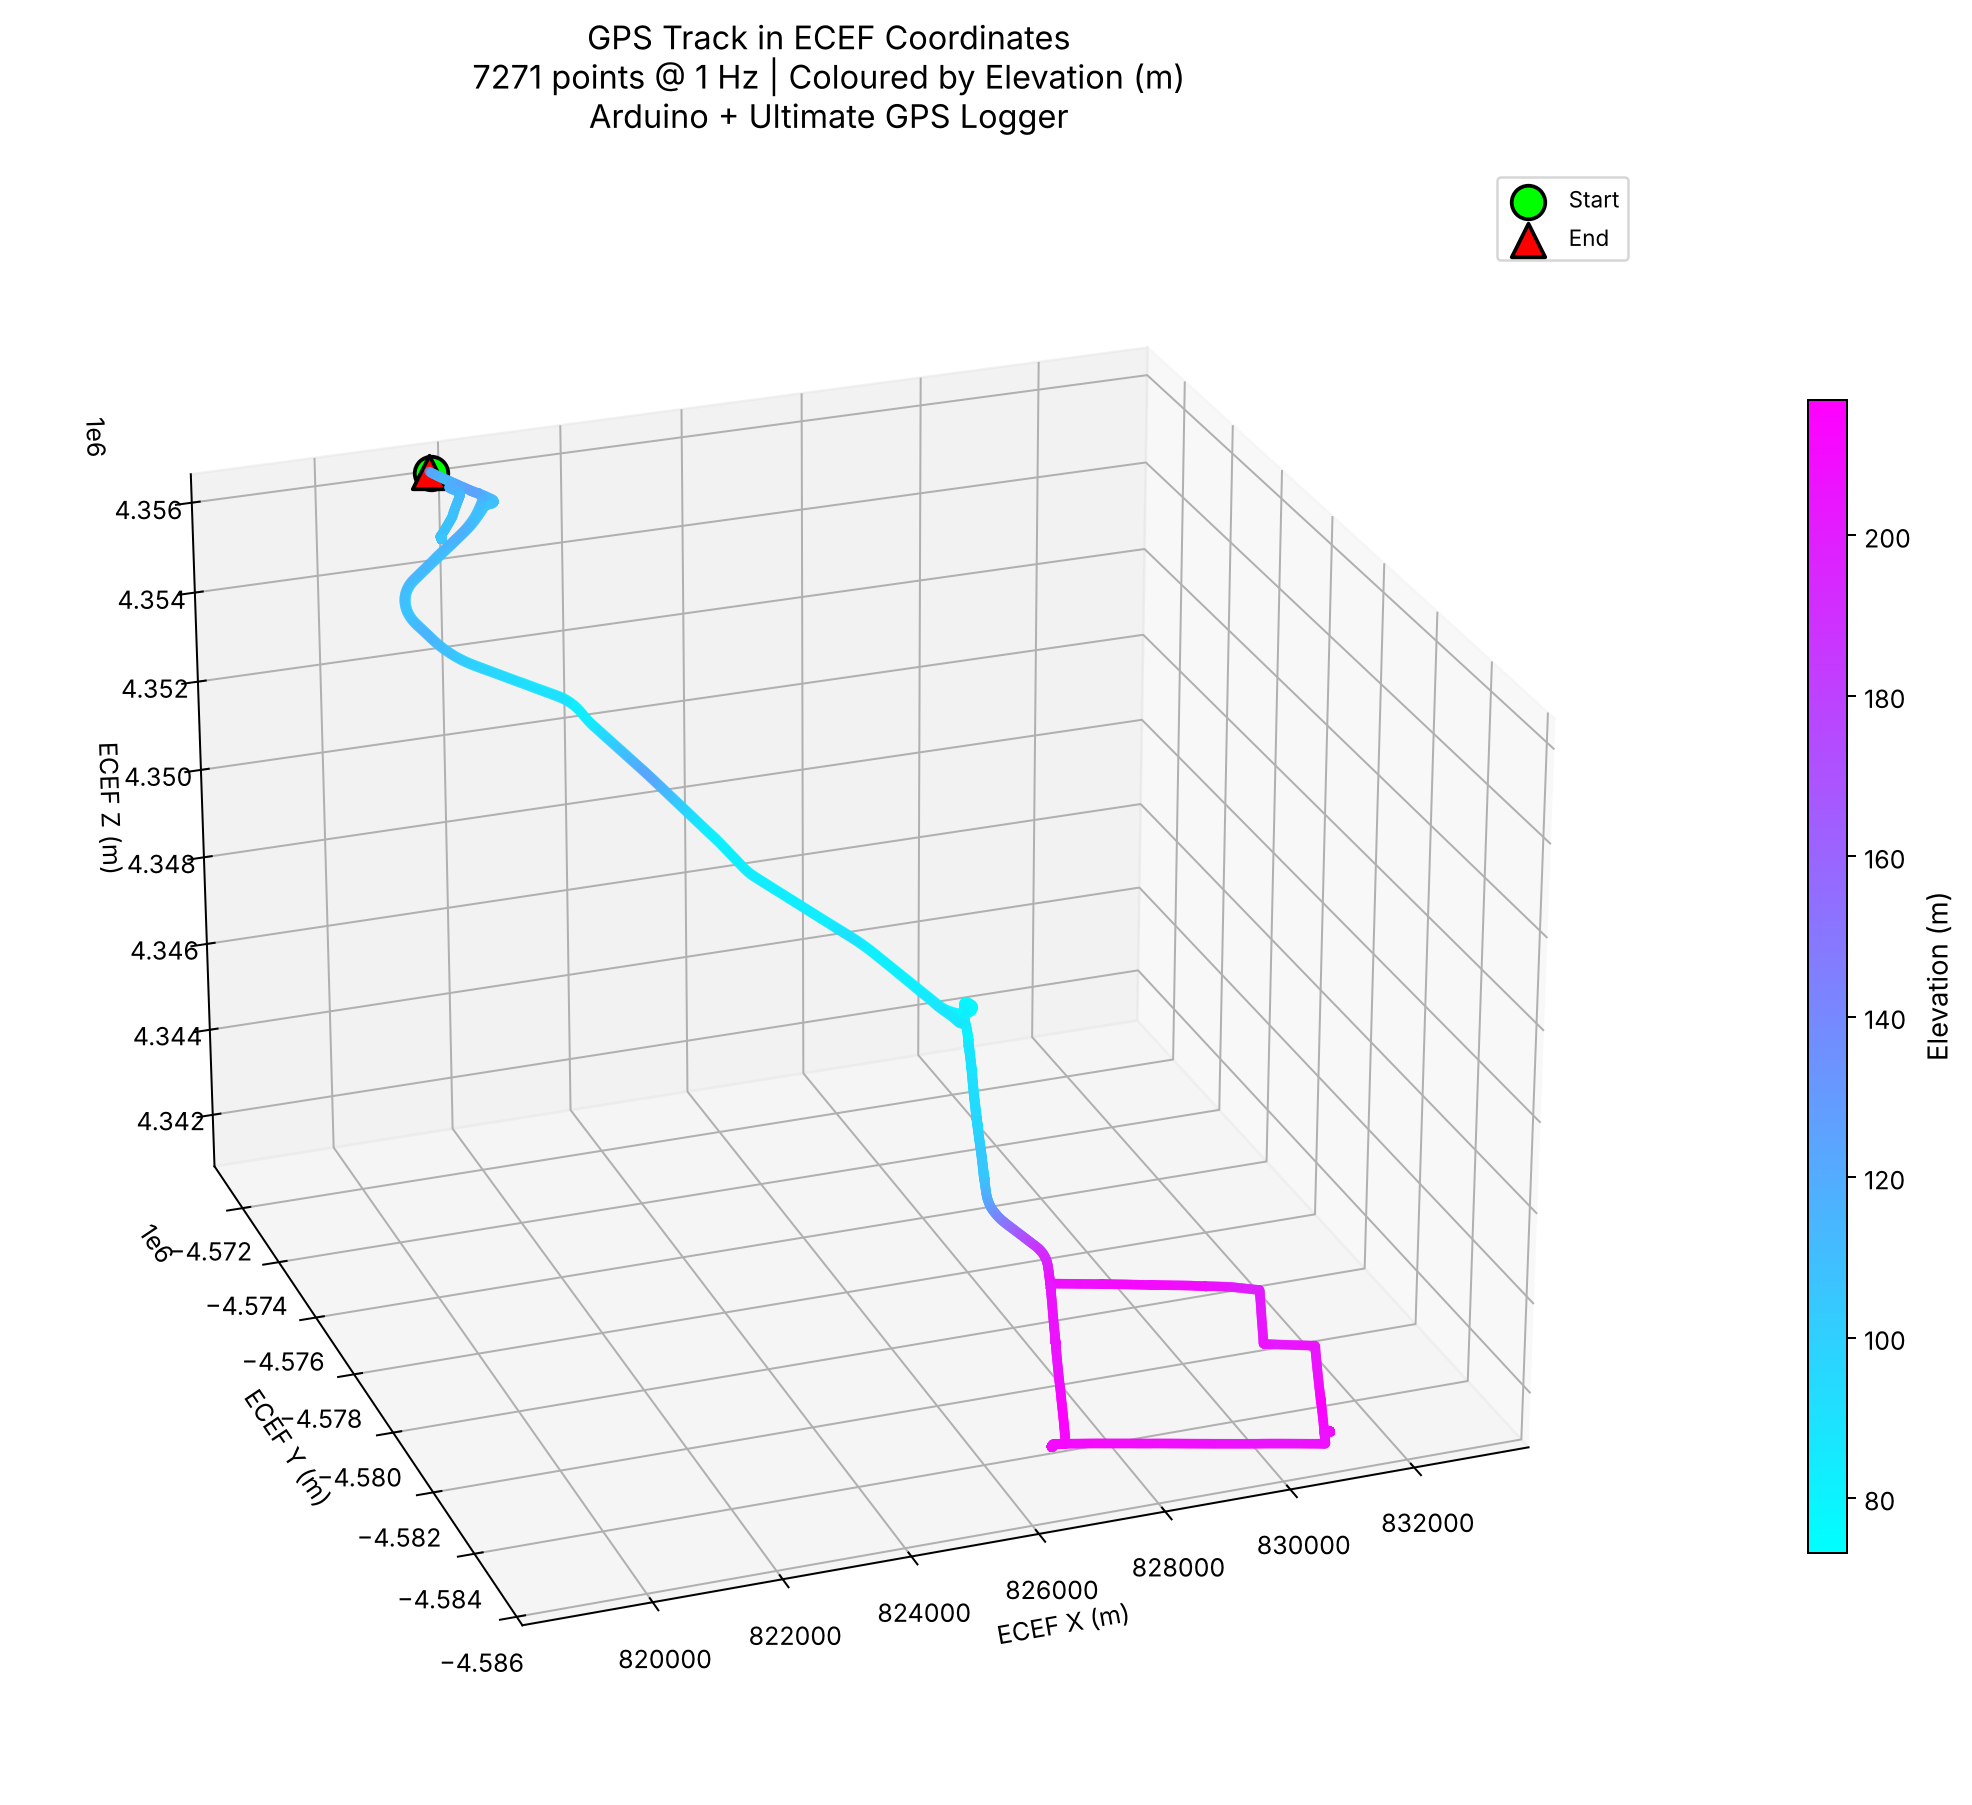
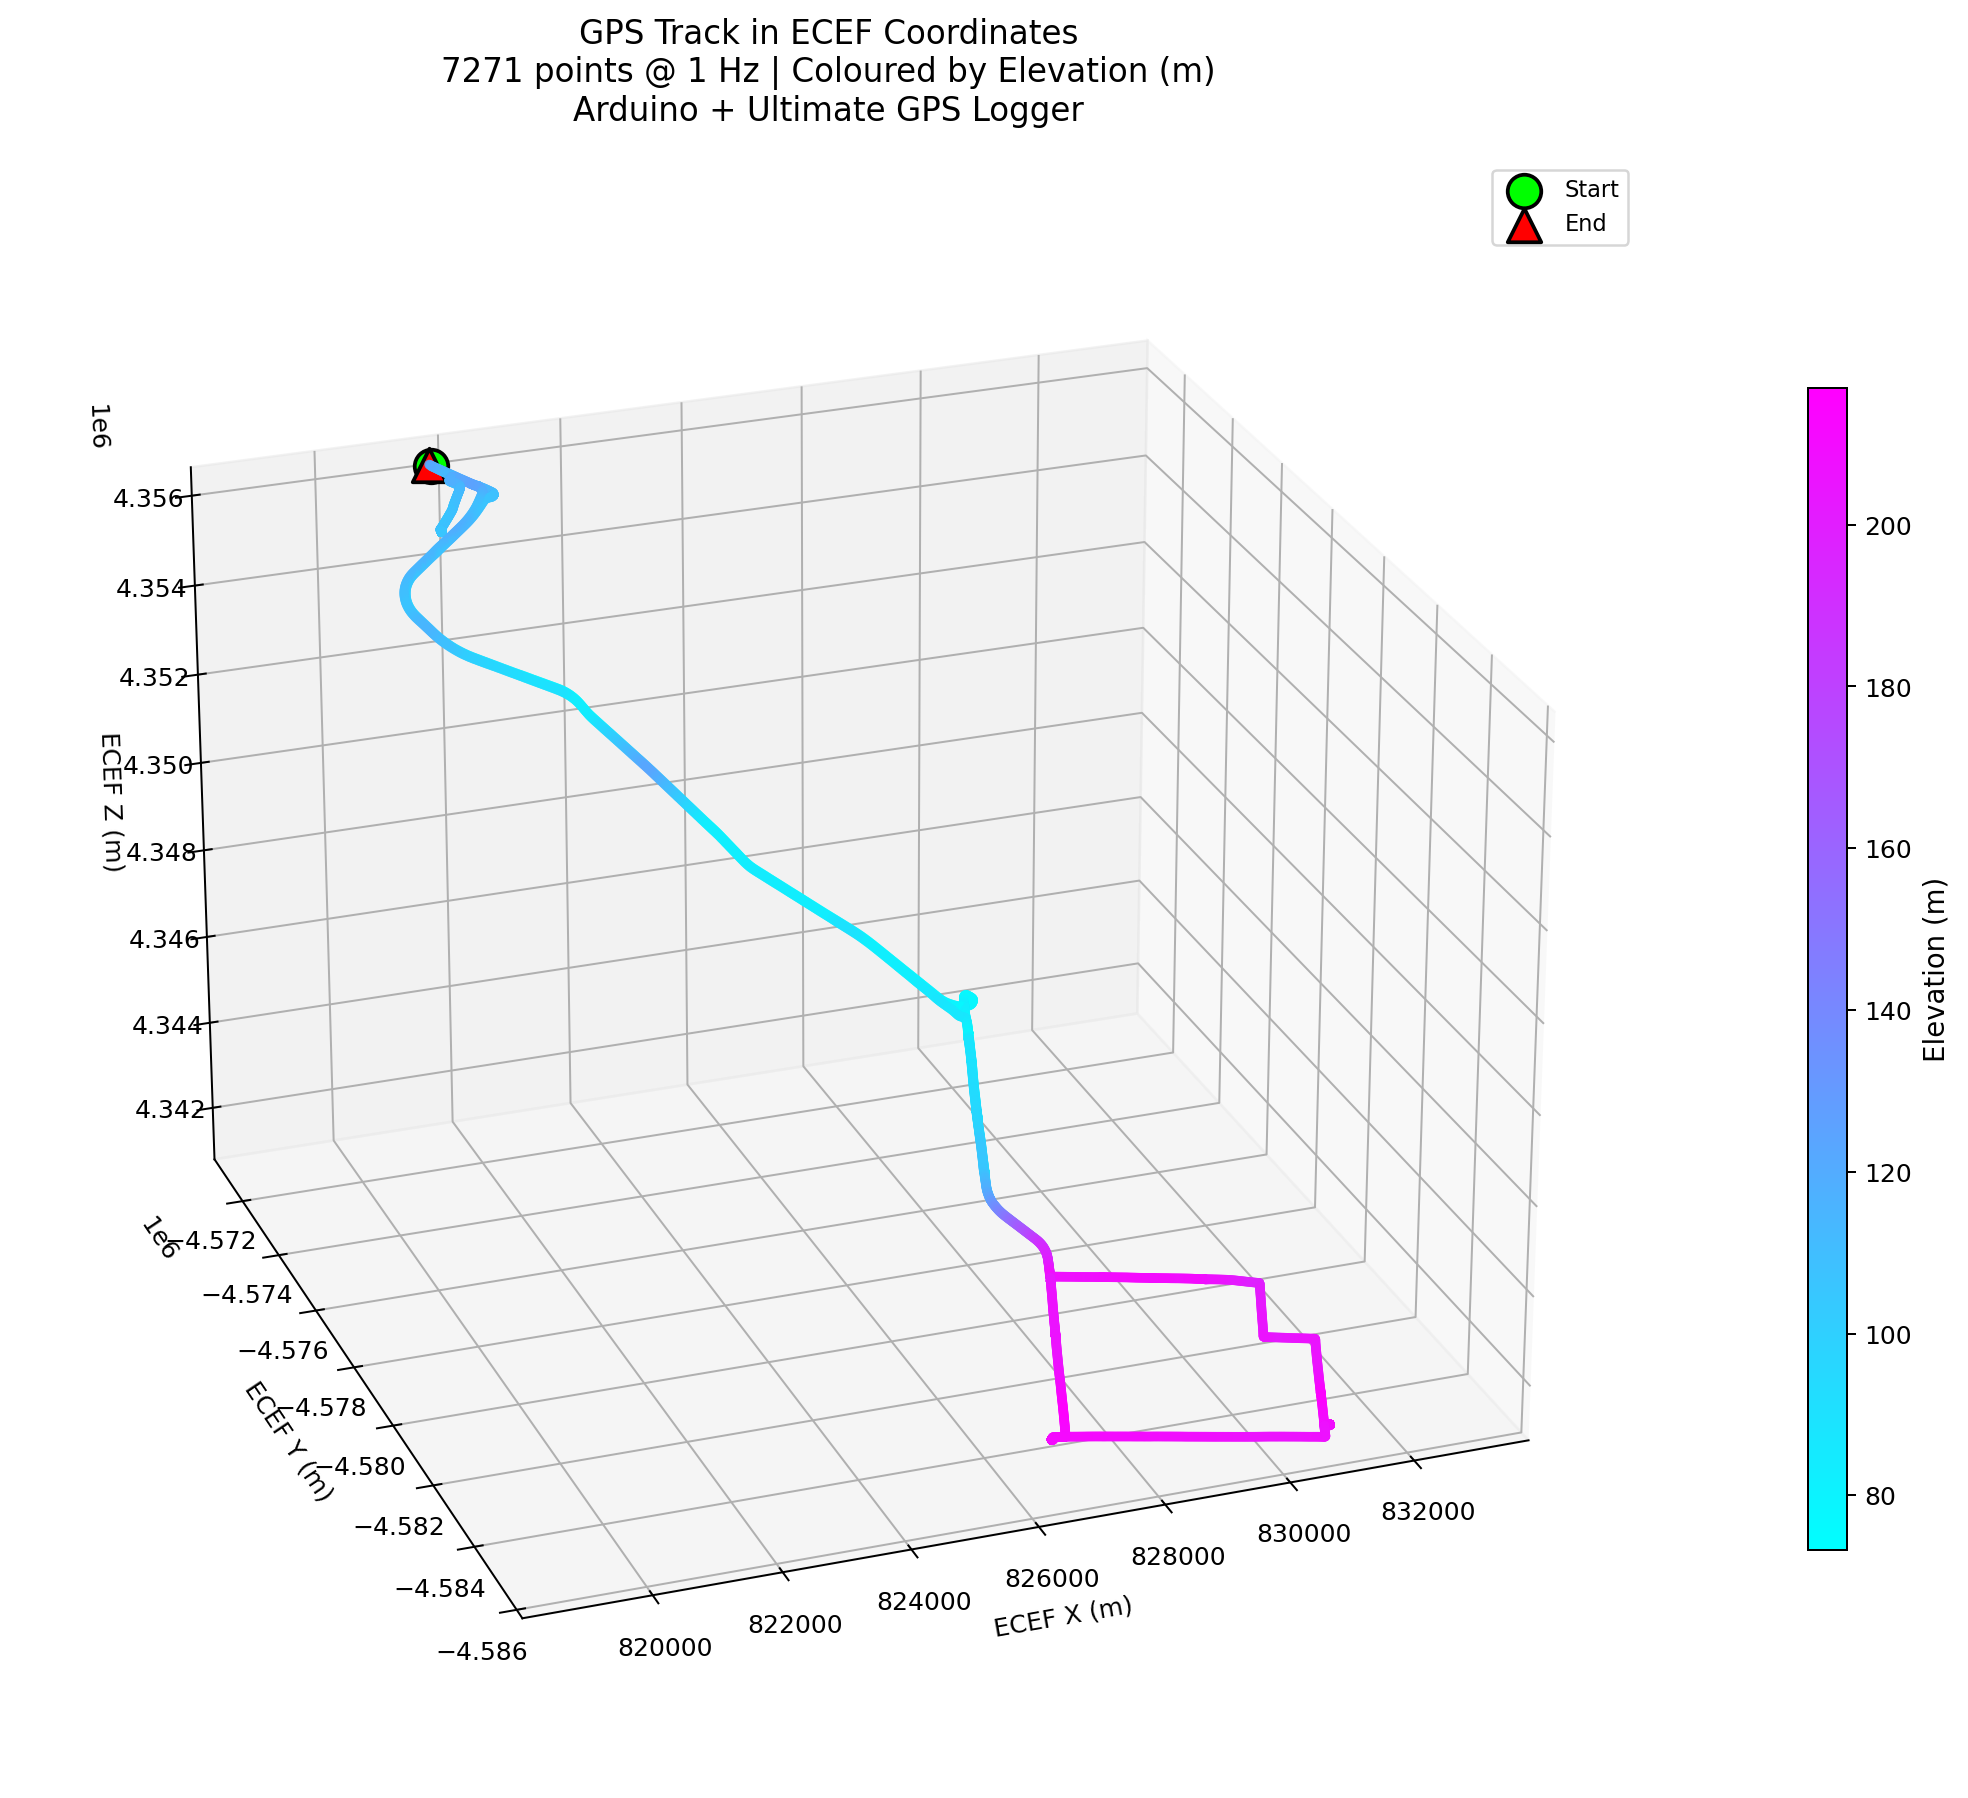
Save figures to images/, add lat/long map to README, add AI use note

diff --git a/parser.py b/parser.py
@@ -157,7 +157,7 @@ Begin of map output
 """
 
 # config values
-PNG_OUTPUT = "gps_lat_long_plot.png"
+PNG_OUTPUT = "images/gps_lat_long_plot.png"
 DPI = 200 # sharp export
 FIG_SIZE = (14, 10)
 COLOUR_BY = "Elevation (m)"
@@ -310,7 +310,7 @@ COLOUR_BY = "Elevation (m)"
 CMAP = "cool"
 FIG_SIZE = (12, 10)
 ELEV, AZIM = 25, -110 # view angles
-PNG_OUTPUT = "gps_track_ecef_3d.png"
+PNG_OUTPUT = "images/gps_track_ecef_3d.png"
 DPI = 180
 
 # Extract ECEF arrays
@@ -480,7 +480,7 @@ COLOUR_BY       = "Elevation (m)"
 CMAP           = "cool"
 FIG_SIZE       = (12, 10)
 ELEV, AZIM     = 25, -110 # view angles
-PNG_OUTPUT     = "gps_track_enu_3d.png"
+PNG_OUTPUT     = "images/gps_track_enu_3d.png"
 DPI            = 180
 
 df = add_enu_columns(df)

diff --git a/README.md b/README.md
@@ -26,9 +26,11 @@ I built it to practise the full chain from sensor to deliverable: hardware setup
 1. **Parse** the raw `$GPGGA` sentences: UTC time, satellite count, lat/long (converted from degrees-decimal-minutes), and altitude. Parse speed over ground from `$GPRMC`.
 2. **Fuse** the 0.1 Hz temperature stream with the 1 Hz position stream. The script joins them on time and linearly interpolates temperature to 1 Hz, then saves the result to `data.parquet`.
 3. **Transform** WGS84 geodetic coordinates to ECEF (X, Y, Z), then rotate them into a local ENU frame whose origin is the first fix.
-4. **Plot** the track three ways, coloured by elevation.
+4. **Plot** the drive three different ways, coloured by elevation.
 
 ## Results
+
+![Lat/long track on a basemap](images/gps_lat_long_plot.png)
 
 | ECEF (global Cartesian) | ENU (local, origin at first fix) |
 |---|---|
@@ -46,7 +48,7 @@ pip install -r requirements.txt
 python parser.py
 ```
 
-The 3D plots open in interactive windows; close one to show the next. Every plot is also saved as a PNG.
+The 3D plots open in interactive windows; close one to show the next. Every plot is also saved as a PNG in `images/`.
 
 To log your own data, flash the sketch (Arduino library: **Adafruit GPS Library v1.1.3**), collect, and copy the `.TXT` files from the SD card into `data/`.
 
@@ -55,6 +57,7 @@ To log your own data, flash the sketch (Arduino library: **Adafruit GPS Library 
 - **Privacy:** I trimmed the logs in `data/` to remove everything within 1.5 km of the start and end points.
 - **Temperature:** temperature was logged to practise merging datasets with different sampling rates. It isn't plotted, because the variation over the drive wasn't interesting.
 - **Firmware:** the sketch is based on Adafruit's `shield_sdlog` example (Ladyada, modified by Bill Greiman). I added the TMP36 reading, the second log file, and the 10-second fix-gated temperature logging.
+- **AI Use:** The parsing and plotting code was written with AI assistance. My focus was the hardware build, field data collection, and the geodetic → ECEF → ENU workflow.
 
 ## License
 
